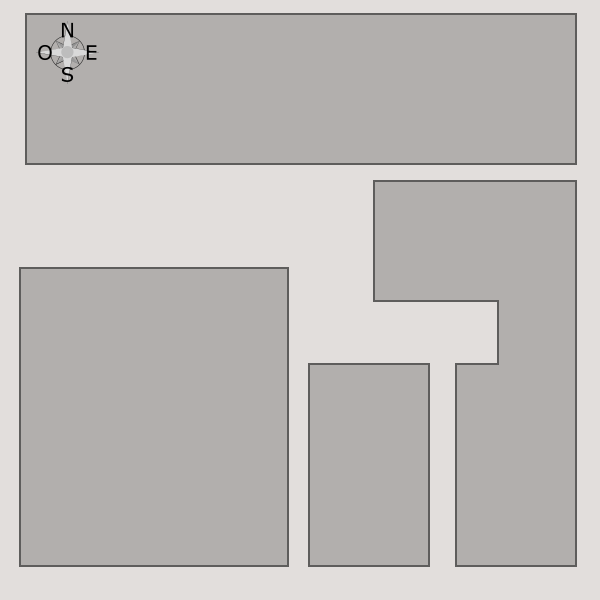
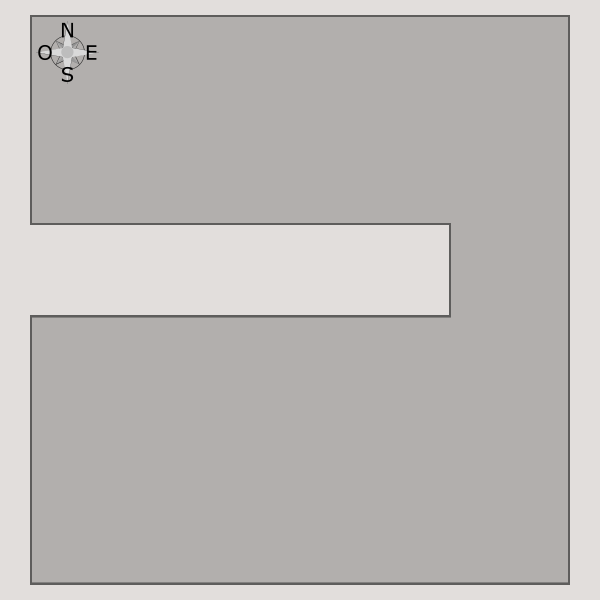
Changement des cartes des progressions 1 à 10 de l'activité En route vers l'antenne.

Changed region(s): [[0.03, 0.0, 0.96, 0.99]]

diff --git a/carte/pages/10/script.js b/carte/pages/10/script.js
@@ -1,35 +1,17 @@
 popupInfo("Parfois, il ne faut pas tout mettre dans le bloc vert !!! \n Aide robotino à se rendre jusqu’à la case verte. \n **Attention ! Tu n’as le droit qu’à 5 blocs.**");
 
 page_map = [
-    {row: 2, col: 2, data: {style: "deb", type: 1}},
-    {row: 2, col: 3, data: {style: "1", type: 1}},
-    {row: 2, col: 4, data: {style: "1", type: 1}},
-    {row: 2, col: 5, data: {style: "1", type: 1}},
-    {row: 2, col: 6, data: {style: "3", type: 2}},
-    {row: 1, col: 6, data: {style: "2", type: 1}},
-    {row: 1, col: 7, data: {style: "1", type: 1}},
-    {row: 3, col: 6, data: {style: "1", type: 0}},
-    {row: 4, col: 6, data: {style: "3", type: 0}},
-    {row: 4, col: 7, data: {style: "1", type: 1}},
-    {row: 5, col: 6, data: {style: "1", type: 0}},
-    {row: 6, col: 6, data: {style: "1", type: 0}},
-    {row: 7, col: 6, data: {style: "1", type: 0}},
-    {row: 8, col: 6, data: {style: "3", type: 3}},
-    {row: 8, col: 7, data: {style: "1", type: 1}},
-    {row: 8, col: 5, data: {style: "1", type: 1}},
-    {row: 8, col: 4, data: {style: "3", type: 3}},
-    {row: 7, col: 4, data: {style: "1", type: 0}},
-    {row: 6, col: 4, data: {style: "1", type: 0}},
-    {row: 5, col: 4, data: {style: "fin", type: 2}},
-    {row: 8, col: 3, data: {style: "1", type: 1}},
-    {row: 8, col: 2, data: {style: "2", type: 0}},
-    {row: 7, col: 2, data: {style: "1", type: 0}},
-    {row: 6, col: 2, data: {style: "2", type: 2}},
-    {row: 6, col: 1, data: {style: "1", type: 1}},
+    {row: 5, col: 1, data: {style: "deb", type: 1}},
+    {row: 5, col: 2, data: {style: "2", type: 2}},
+    {row: 6, col: 2, data: {style: "2", type: 0}},
+    {row: 6, col: 3, data: {style: "1", type: 1}},
+    {row: 6, col: 4, data: {style: "1", type: 1}},
+    {row: 6, col: 5, data: {style: "1", type: 1}},
+    {row: 6, col: 6, data: {style: "1", type: 1}},
+    {row: 6, col: 7, data: {style: "fin", type: 3}},
 ];
 
-maxBlocks = 5;
-
+maxBlocks = 6;
 function setup() {
     var canvas = createCanvas(600, 600);
     canvas.parent('sketch-holder');

diff --git a/carte/pages/8/script.js b/carte/pages/8/script.js
@@ -1,27 +1,19 @@
 popupInfo("Aide Robotino à se rendre jusqu’à la case verte. \n Utilise la boucle afin de simplifier ton programme ! \n **Attention ! Tu n’as le droit qu’à 9 blocs !**");
 
 page_map = [
-    {row: 7, col: 1, data: {style: "deb", type: 1}},
-    {row: 7, col: 2, data: {style: "1", type: 1}},
-    {row: 7, col: 3, data: {style: "1", type: 1}},
-    {row: 7, col: 4, data: {style: "1", type: 1}},
-    {row: 7, col: 5, data: {style: "1", type: 1}},
-    {row: 7, col: 6, data: {style: "1", type: 1}},
-    {row: 7, col: 7, data: {style: "2", type: 3}},
-    {row: 6, col: 7, data: {style: "1", type: 0}},
-    {row: 5, col: 7, data: {style: "1", type: 0}},
-    {row: 4, col: 7, data: {style: "1", type: 0}},
-    {row: 3, col: 7, data: {style: "1", type: 0}},
-    {row: 2, col: 7, data: {style: "1", type: 0}},
-    {row: 1, col: 7, data: {style: "2", type: 2}},
-    {row: 1, col: 6, data: {style: "1", type: 1}},
-    {row: 1, col: 5, data: {style: "1", type: 1}},
-    {row: 1, col: 4, data: {style: "1", type: 1}},
-    {row: 1, col: 3, data: {style: "1", type: 1}},
-    {row: 1, col: 2, data: {style: "2", type: 1}},
-    {row: 2, col: 2, data: {style: "1", type: 0}},
-    {row: 3, col: 2, data: {style: "1", type: 0}},
-    {row: 4, col: 2, data: {style: "fin", type: 0}}
+    {row: 8, col: 8, data: {style: "deb", type: 3}},
+    {row: 8, col: 7, data: {style: "2", type: 0}},
+    {row: 7, col: 7, data: {style: "2", type: 2}},
+    {row: 7, col: 6, data: {style: "2", type: 0}},
+    {row: 6, col: 6, data: {style: "2", type: 2}},
+    {row: 6, col: 5, data: {style: "2", type: 0}},
+    {row: 5, col: 5, data: {style: "2", type: 2}},
+    {row: 5, col: 4, data: {style: "2", type: 0}},
+    {row: 4, col: 4, data: {style: "2", type: 2}},
+    {row: 4, col: 3, data: {style: "2", type: 0}},
+    {row: 3, col: 3, data: {style: "2", type: 2}},
+    {row: 3, col: 2, data: {style: "2", type: 0}},
+    {row: 2, col: 2, data: {style: "fin", type: 2}}
 ];
 
 maxBlocks = 5;

diff --git a/carte/pages/9/script.js b/carte/pages/9/script.js
@@ -1,30 +1,18 @@
 popupInfo("Aide Robotino à se rendre jusqu’à la case verte. \n Utilise la boucle afin de simplifier ton programme ! \n **Attention ! Tu n’as le droit qu’à 9 blocs !**");
 
 page_map = [
-    {row: 7, col: 1, data: {style: "deb", type: 1}},
-    {row: 7, col: 2, data: {style: "1", type: 1}},
-    {row: 7, col: 3, data: {style: "1", type: 1}},
-    {row: 7, col: 4, data: {style: "1", type: 1}},
-    {row: 7, col: 5, data: {style: "1", type: 1}},
-    {row: 7, col: 6, data: {style: "1", type: 1}},
-    {row: 7, col: 7, data: {style: "2", type: 3}},
-    {row: 6, col: 7, data: {style: "1", type: 0}},
-    {row: 5, col: 7, data: {style: "1", type: 0}},
-    {row: 4, col: 7, data: {style: "1", type: 0}},
-    {row: 3, col: 7, data: {style: "1", type: 0}},
-    {row: 2, col: 7, data: {style: "1", type: 0}},
-    {row: 1, col: 7, data: {style: "2", type: 2}},
-    {row: 1, col: 6, data: {style: "1", type: 1}},
-    {row: 1, col: 5, data: {style: "1", type: 1}},
-    {row: 1, col: 4, data: {style: "1", type: 1}},
-    {row: 1, col: 3, data: {style: "1", type: 1}},
-    {row: 1, col: 2, data: {style: "2", type: 1}},
-    {row: 2, col: 2, data: {style: "1", type: 0}},
-    {row: 3, col: 2, data: {style: "1", type: 0}},
-    {row: 4, col: 2, data: {style: "fin", type: 0}}
+    {row: 5, col: 1, data: {style: "deb", type: 1}},
+    {row: 5, col: 2, data: {style: "2", type: 3}},
+    {row: 4, col: 2, data: {style: "2", type: 1}},
+    {row: 4, col: 3, data: {style: "2", type: 2}},
+    {row: 5, col: 3, data: {style: "2", type: 0}},
+    {row: 5, col: 4, data: {style: "2", type: 3}},
+    {row: 4, col: 4, data: {style: "2", type: 1}},
+    {row: 4, col: 5, data: {style: "2", type: 2}},
+    {row: 5, col: 5, data: {style: "fin", type: 0}},
 ];
 
-maxBlocks = 5;
+maxBlocks = 9;
 
 function setup() {
     var canvas = createCanvas(600, 600);

diff --git a/carte/pages/3/script.js b/carte/pages/3/script.js
@@ -1,14 +1,11 @@
 popupInfo("Fais avancer Robotino jusqu’à la case verte \n en utilisant le nouveau bloc : la boucle. \n **Attention, tu n’as le droit d’utiliser que deux blocs.**");
 
 page_map = [
-    {row: 3, col: 2, data: {style: "deb", type: 1}},
-    {row: 3, col: 3, data: {style: "1", type: 1}},
-    {row: 3, col: 4, data: {style: "1", type: 1}},
-    {row: 3, col: 5, data: {style: "2", type: 2}},
-    {row: 4, col: 5, data: {style: "1", type: 0}},
-    {row: 5, col: 5, data: {style: "2", type: 0}},
-    {row: 5, col: 6, data: {style: "1", type: 1}},
-    {row: 5, col: 7, data: {style: "fin", type: 3}}
+    {row: 4, col: 2, data: {style: "deb", type: 1}},
+    {row: 4, col: 3, data: {style: "1", type: 1}},
+    {row: 4, col: 4, data: {style: "1", type: 1}},
+    {row: 4, col: 5, data: {style: "1", type: 1}},
+    {row: 4, col: 6, data: {style: "fin", type: 3}}
 ];
 
 function setup() {

diff --git a/carte/pages/4/script.js b/carte/pages/4/script.js
@@ -1,14 +1,14 @@
 popupInfo("\nFais avancer Robotino jusqu’à la case verte. \n **Attention ! Tu ne peux utiliser qu’un maximum de 4 blocs.**");
 
 page_map = [
-    {row: 4, col: 2, data: {style: "deb", type: 1}},
-    {row: 4, col: 3, data: {style: "1", type: 1}},
-    {row: 4, col: 4, data: {style: "1", type: 1}},
-    {row: 4, col: 5, data: {style: "1", type: 1}},
-    {row: 4, col: 6, data: {style: "fin", type: 3}}
+    {row: 5, col: 2, data: {style: "deb", type: 1}},
+    {row: 5, col: 3, data: {style: "1", type: 1}},
+    {row: 5, col: 4, data: {style: "2", type: 3}},
+    {row: 4, col: 4, data: {style: "1", type: 0}},
+    {row: 3, col: 4, data: {style: "fin", type: 2}}
 ];
 
-maxBlocks = 2;
+maxBlocks = 4;
 
 function setup() {
     var canvas = createCanvas(600, 600);

diff --git a/carte/pages/2/script.js b/carte/pages/2/script.js
@@ -1,11 +1,13 @@
 popupInfo("\n Fais avancer et tourner Robotino, jusqu’à la case verte, \n à l’aide du bloc \"avancer\" et du bloc \"changer la direction\" !");
 
 page_map = [
-    {row: 4, col: 2, data: {style: "deb", type: 1}},
-    {row: 4, col: 3, data: {style: "1", type: 1}},
+    {row: 6, col: 3, data: {style: "deb", type: 0}},
+    {row: 5, col: 3, data: {style: "1", type: 0}},
+    {row: 4, col: 3, data: {style: "2", type: 1}},
     {row: 4, col: 4, data: {style: "1", type: 1}},
-    {row: 4, col: 5, data: {style: "1", type: 1}},
-    {row: 4, col: 6, data: {style: "fin", type: 3}}
+    {row: 4, col: 5, data: {style: "2", type: 3}},
+    {row: 3, col: 5, data: {style: "1", type: 0}},
+    {row: 2, col: 5, data: {style: "fin", type: 2}}
 ];
 
 function setup() {

diff --git a/carte/pages/10/blockly.html b/carte/pages/10/blockly.html
@@ -20,14 +20,10 @@
 <body onload="initBlockly(1.0,true,false)">
 <xml id="toolbox" style="display: none;">
     <block type="avance"></block>
+    <block type="change_direction">
+        <field name="dir">N</field>
+    </block>
     <block type="jusque_fin"></block>
-    <block type="virage_dir">
-        <field name="dir">L</field>
-    </block>
-    <block type="tourne_dir">
-        <field name="dir">L</field>
-    </block>
-    <block type="controls_if"></block>
 </xml>
 </xml>
 

diff --git a/carte/pages/8/blockly.html b/carte/pages/8/blockly.html
@@ -20,14 +20,10 @@
 <body onload="initBlockly(1.0,true,false)">
 <xml id="toolbox" style="display: none;">
     <block type="avance"></block>
+    <block type="change_direction">
+        <field name="dir">N</field>
+    </block>
     <block type="jusque_fin"></block>
-    <block type="virage_dir">
-        <field name="dir">L</field>
-    </block>
-    <block type="tourne_dir">
-        <field name="dir">L</field>
-    </block>
-    <block type="controls_if"></block>
 </xml>
 </xml>
 

diff --git a/carte/pages/9/blockly.html b/carte/pages/9/blockly.html
@@ -20,14 +20,10 @@
 <body onload="initBlockly(1.0,true,false)">
 <xml id="toolbox" style="display: none;">
     <block type="avance"></block>
+    <block type="change_direction">
+        <field name="dir">N</field>
+    </block>
     <block type="jusque_fin"></block>
-    <block type="virage_dir">
-        <field name="dir">L</field>
-    </block>
-    <block type="tourne_dir">
-        <field name="dir">L</field>
-    </block>
-    <block type="controls_if"></block>
 </xml>
 </xml>
 

diff --git a/carte/pages/6/script.js b/carte/pages/6/script.js
@@ -18,12 +18,8 @@ page_map = [
     {row: 4, col: 3, data: {style: "2", type: 0}},
     {row: 3, col: 3, data: {style: "2", type: 2}},
     {row: 3, col: 2, data: {style: "2", type: 0}},
-    {row: 2, col: 2, data: {style: "2", type: 2}},
-    {row: 2, col: 1, data: {style: "2", type: 0}},
-    {row: 1, col: 1, data: {style: "fin", type: 2}}
+    {row: 2, col: 2, data: {style: "fin", type: 2}}
 ];
-
-maxBlocks = 5;
 
 function setup() {
     var canvas = createCanvas(600, 600);

diff --git a/carte/pages/3/blockly.html b/carte/pages/3/blockly.html
@@ -23,6 +23,7 @@
         <field name="dir">N</field>
     </block>
     <block type="avance"></block>
+    <block type="jusque_fin"></block>
 </xml>
 </xml>
 

diff --git a/carte/pages/6/blockly.html b/carte/pages/6/blockly.html
@@ -23,7 +23,6 @@
         <field name="dir">N</field>
     </block>
     <block type="avance"></block>
-    <block type="jusque_fin"></block>
 
 </xml>
 </xml>
